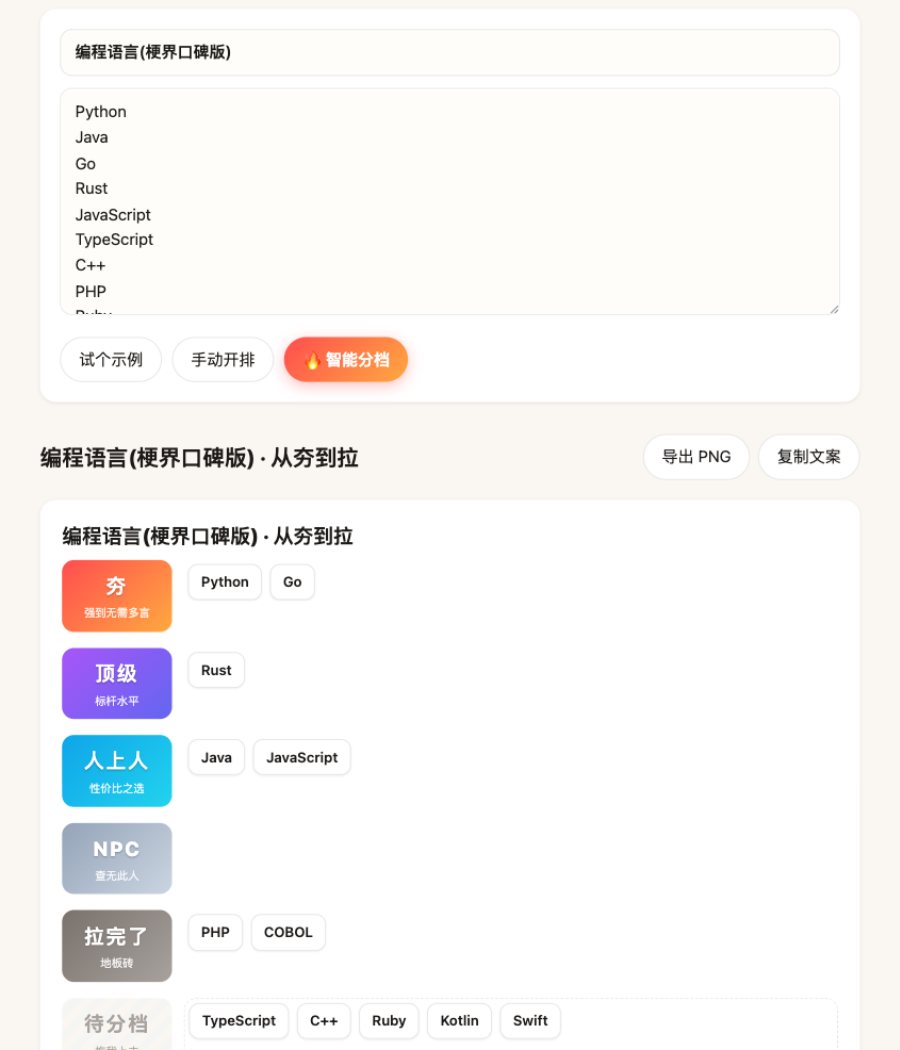
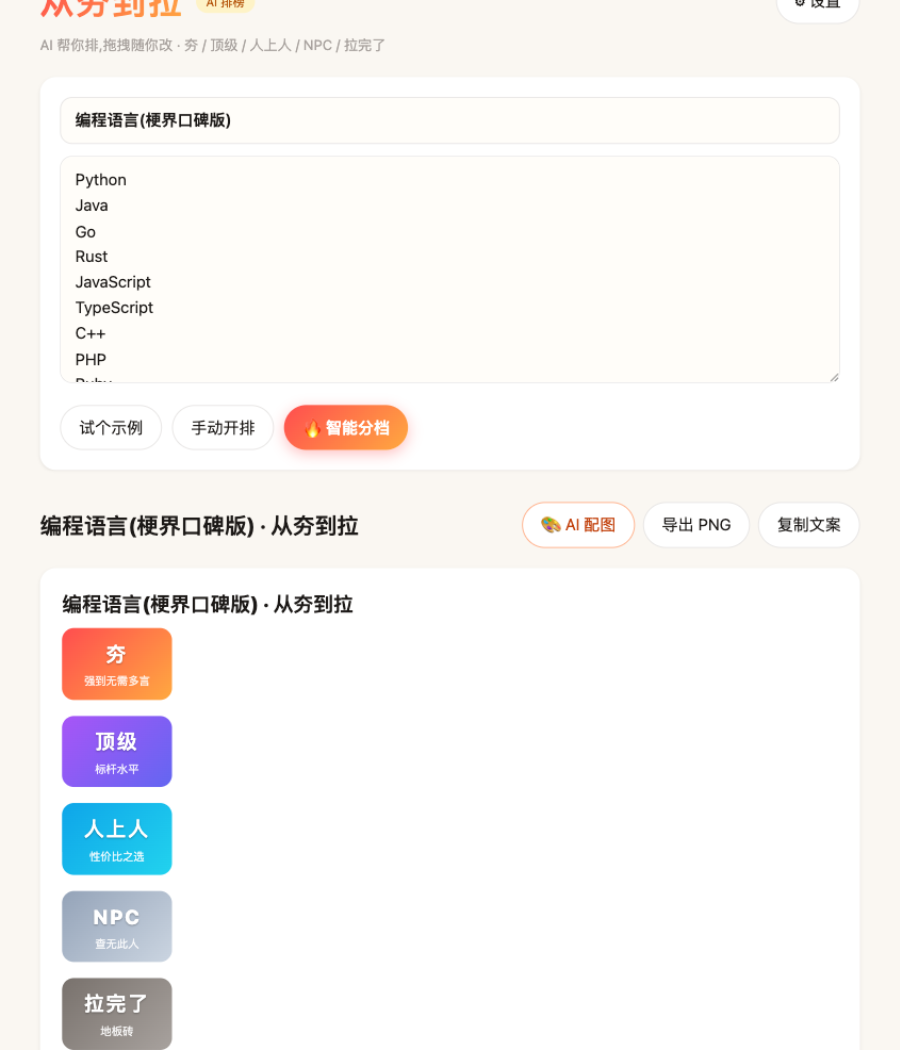
Add: AI 生图配图 Pollinations 串行节流(v0.3)

diff --git a/app.js b/app.js
@@ -1,8 +1,9 @@
 import { TIERS, parseItems, buildPrompt, parseTierResult, toMarkdown } from './tier.js'
 import { PROVIDERS, chat } from './llm.js'
+import { fetchImageDataURL, imageUrl } from './image.js'
 
 const $ = (id) => document.getElementById(id)
-const els = ['topic', 'items', 'btn-demo', 'btn-manual', 'btn-ai', 'btn-settings', 'btn-png', 'btn-md',
+const els = ['topic', 'items', 'btn-demo', 'btn-manual', 'btn-ai', 'btn-settings', 'btn-img', 'btn-png', 'btn-md',
   'board-wrap', 'board', 'board-title', 'board-title-text', 'settings', 'set-provider', 'set-baseurl',
   'set-model', 'set-key', 'set-save', 'set-cancel', 'key-url', 'key-hint', 'toast', 'opt-analytics']
   .reduce((m, id) => ((m[id] = $(id)), m), {})
@@ -51,9 +52,9 @@ const defaultConfig = () => {
 let config = { ...defaultConfig(), ...JSON.parse(localStorage.getItem(CONFIG_KEY) || '{}') }
 
 // ── 状态与渲染 ──────────────────────────────────────────────────
-let state = { topic: '', results: [] } // results: [{name, tier(null=待分档), reason}]
+let state = { topic: '', results: [] } // results: [{name, tier(null=待分档), reason, emoji?, image?(URL), imageLoaded?}]
 
-function renderBoard() {
+function renderBoard(onImageSettled) {
   const { topic, results } = state
   els['board-wrap'].hidden = false
   els['board-title'].textContent = topic ? `${topic} · 从夯到拉` : '从夯到拉'
@@ -87,6 +88,26 @@ function renderBoard() {
       chip.dataset.name = m.name
       const name = document.createElement('div')
       name.className = 'name'
+      if (m.image && !m.imageFailed && !m.imagePending) {
+        const avatar = document.createElement('img')
+        avatar.src = m.image
+        avatar.alt = ''
+        avatar.width = 22
+        avatar.height = 22
+        avatar.onload = () => {
+          if (m.imageLoaded) return // 重建渲染的缓存命中,不重复计数
+          m.imageLoaded = true
+          onImageSettled?.(m, true)
+        }
+        avatar.onerror = () => {
+          if (m.imageFailed) return
+          m.imageFailed = true
+          m.image = ''
+          onImageSettled?.(m, false)
+        }
+        name.appendChild(avatar)
+        name.appendChild(document.createTextNode(' '))
+      }
       if (m.emoji) {
         const emoji = document.createElement('span')
         emoji.className = 'emoji'
@@ -197,13 +218,106 @@ els['btn-ai'].addEventListener('click', async () => {
   }
 })
 
+// ── AI 配图(免费生图,受控队列:并发 2,失败自动重试 1 次) ──────
+els['btn-img'].addEventListener('click', () => {
+  const todo = state.results.filter((r) => !r.image)
+  if (!todo.length) return toast('配图已齐,刷新页面可重新生成')
+  const btn = els['btn-img']
+  btn.disabled = true
+  btn.dataset.orig = btn.textContent
+  const total = todo.length
+  const callbacks = new Map() // name → 该条本轮的 settle 回调
+  let done = 0
+  let fail = 0
+  let inflight = 0
+  const paint = () => (btn.textContent = `配图中 ${done + fail}/${total}…`)
+  paint()
+
+  const finishBatch = () => {
+    btn.disabled = false
+    btn.textContent = btn.dataset.orig
+    track('image_generate', { ok: done, fail, total })
+    toast(fail ? `配图完成,${fail} 张失败,可再点一次重试` : '配图完成 ✨')
+  }
+
+  const launchNext = () => {
+    while (inflight < 1) {
+      const r = todo.find((x) => !x.started)
+      if (!r) {
+        if (done + fail >= total) finishBatch()
+        return
+      }
+      r.started = true
+      r.imagePending = false
+      r.imageFailed = false
+      r.imageLoaded = false
+      r.image = imageUrl(state.topic || 'tier list', r.name)
+      inflight++
+      callbacks.set(r.name, (row, ok) => {
+        if (!ok && !row.retried) {
+          row.retried = true
+          row.image = ''
+          row.started = false
+          setTimeout(() => {
+            inflight--
+            launchNext()
+          }, 3000)
+          return
+        }
+        callbacks.delete(row.name)
+        inflight--
+        ok ? done++ : fail++
+        paint()
+        setTimeout(launchNext, ok ? 600 : 3000) // 节流:给免费限流窗口留呼吸
+      })
+      renderBoard((row, ok) => callbacks.get(row.name)?.(row, ok))
+    }
+  }
+
+  for (const r of todo) {
+    r.image = ''
+    r.imagePending = true
+    r.imageFailed = false
+    r.imageLoaded = false
+    r.started = false
+    r.retried = false
+  }
+  launchNext()
+})
+
 // ── 导出 PNG(SVG foreignObject,零依赖) ─────────────────────────
 els['btn-png'].addEventListener('click', async () => {
+  const btn = els['btn-png']
+  btn.disabled = true
+  btn.dataset.orig = btn.textContent
+  btn.textContent = '导出中…'
+  try {
+    await exportPNG()
+  } finally {
+    btn.disabled = false
+    btn.textContent = btn.dataset.orig
+  }
+})
+
+async function exportPNG() {
   const node = $('export-root')
   const W = node.offsetWidth
   const H = node.scrollHeight
   const css = await (await fetch('style.css')).text()
   const clone = node.cloneNode(true)
+  // 外域图片进 SVG 会裂:已加载的转 dataURL,未就绪的剔除
+  for (const chipEl of clone.querySelectorAll('.chip')) {
+    const r = state.results.find((x) => x.name === chipEl.dataset.name)
+    const img = chipEl.querySelector('img')
+    if (!img) continue
+    if (r?.image && r.imageLoaded) {
+      try {
+        img.src = await fetchImageDataURL(r.image, 20000)
+        continue
+      } catch {}
+    }
+    img.remove()
+  }
   const wrap = document.createElement('div')
   wrap.setAttribute('xmlns', 'http://www.w3.org/1999/xhtml')
   wrap.style.cssText = `width:${W}px;background:#fff;border-radius:16px;overflow:hidden`
@@ -236,7 +350,7 @@ els['btn-png'].addEventListener('click', async () => {
     URL.revokeObjectURL(a.href)
   })
   track('png_export')
-})
+}
 
 // ── 复制 Markdown 文案 ──────────────────────────────────────────
 els['btn-md'].addEventListener('click', async () => {

diff --git a/image.js b/image.js
@@ -1,0 +1,40 @@
+// image.js — AI 配图:Pollinations 免费生图,无 key,fetch 转 dataURL 供导出
+
+const ENDPOINT = 'https://image.pollinations.ai/prompt/'
+
+export function buildImagePrompt(topic, name) {
+  return `minimal flat vector icon of ${name}, ${topic} theme, single object, centered, vibrant pastel background, clean edges, no text, no letters, no watermark`
+}
+
+// 稳定 seed:同名同图,重生成不跳变
+export function seedOf(name) {
+  let h = 0
+  for (const ch of name) h = (h * 31 + ch.codePointAt(0)) >>> 0
+  return h % 100000
+}
+
+export function imageUrl(topic, name, size = 128) {
+  const prompt = encodeURIComponent(buildImagePrompt(topic, name))
+  return `${ENDPOINT}${prompt}?width=${size}&height=${size}&nologo=true&seed=${seedOf(name)}`
+}
+
+// 拉一张图 → dataURL(仅导出时用;URL 同 seed 已生成过会命中缓存,秒回)
+// data 协议在 SVG 导出里安全,不污染 canvas
+export async function fetchImageDataURL(url, timeoutMs = 20000) {
+  const ctrl = new AbortController()
+  const timer = setTimeout(() => ctrl.abort(), timeoutMs)
+  try {
+    const res = await fetch(url, { signal: ctrl.signal })
+    if (!res.ok) throw new Error(`生图 ${res.status}`)
+    const blob = await res.blob()
+    if (!blob.type.startsWith('image/')) throw new Error('返回的不是图片')
+    return await new Promise((resolve, reject) => {
+      const reader = new FileReader()
+      reader.onload = () => resolve(reader.result)
+      reader.onerror = () => reject(new Error('读取图片失败'))
+      reader.readAsDataURL(blob)
+    })
+  } finally {
+    clearTimeout(timer)
+  }
+}

diff --git a/image.test.js b/image.test.js
@@ -1,0 +1,24 @@
+import { describe, expect, test } from 'bun:test'
+import { buildImagePrompt, seedOf, imageUrl } from './image.js'
+
+describe('image prompt/url 构造', () => {
+  test('prompt 含条目与主题,且禁止文字水印', () => {
+    const p = buildImagePrompt('编程语言', 'Go')
+    expect(p).toContain('Go')
+    expect(p).toContain('编程语言')
+    expect(p).toContain('no text')
+    expect(p).toContain('no watermark')
+  })
+  test('seed 同名稳定、异名大概率不同', () => {
+    expect(seedOf('Go')).toBe(seedOf('Go'))
+    expect(seedOf('Go')).not.toBe(seedOf('Rust'))
+  })
+  test('url 正确编码并带尺寸与 seed', () => {
+    const url = imageUrl('奶茶', '喜 茶', 128)
+    expect(url).toContain('https://image.pollinations.ai/prompt/')
+    expect(url).toContain('width=128&height=128')
+    expect(url).toContain('nologo=true')
+    expect(url).toContain(`seed=${seedOf('喜 茶')}`)
+    expect(decodeURIComponent(url.split('/prompt/')[1].split('?')[0])).toContain('喜 茶')
+  })
+})

diff --git a/index.html b/index.html
@@ -34,6 +34,7 @@
       <div class="board-head">
         <h2 id="board-title"></h2>
         <div class="board-actions">
+          <button id="btn-img" class="ghost">🎨 AI 配图</button>
           <button id="btn-png" class="ghost">导出 PNG</button>
           <button id="btn-md" class="ghost">复制文案</button>
         </div>

diff --git a/style.css b/style.css
@@ -154,6 +154,7 @@ button:active { transform: scale(0.97); }
 }
 .chip:active { cursor: grabbing; }
 .chip .name { font-size: 14px; font-weight: 600; }
+.chip .name img { border-radius: 6px; vertical-align: -5px; }
 .chip .emoji { font-size: 16px; font-weight: 400; }
 .chip .reason { font-size: 11px; color: var(--muted); }
 

diff --git a/README.md b/README.md
@@ -12,7 +12,8 @@
 
 1. 填主题(如「编程语言」「奶茶品牌」)和条目(每行一个,最多 30 个)
 2. 点「🔥 智能分档」——没有 Key 也能点「手动开排」自己拖
-3. 拖拽微调 → 「导出 PNG」或「复制文案」
+3. 可选「🎨 AI 配图」:免费 AI 给每条生成小图标(无需 Key,走 Pollinations;串行生成约 1-2 分钟,失败的再点一次补齐)
+4. 拖拽微调 → 「导出 PNG」或「复制文案」
 
 ## 免费 AI 从哪来
 
@@ -29,6 +30,7 @@
 ## 隐私
 
 - API Key 仅存本地浏览器,不上传任何服务器
+- AI 配图为匿名请求,只发主题与条目名,不含任何 Key
 - 匿名使用统计默认开启,页脚一键关闭,关闭后零网络请求(见 [POSTHOG_ANALYTICS.md](POSTHOG_ANALYTICS.md))
 
 ## 开发

diff --git a/POSTHOG_ANALYTICS.md b/POSTHOG_ANALYTICS.md
@@ -11,6 +11,7 @@
 | `manual_start` | 点「手动开排」 | |
 | `tier_generate` | AI 分档完成/失败 | `provider`, `model?`, `count?`, `ms?`, `ok` |
 | `tier_adjust` | 拖拽换档 | `to`(档位 id 或 inbox) |
+| `image_generate` | AI 配图批次结束 | `ok`, `fail`, `total` |
 | `png_export` | 导出 PNG | |
 | `md_copy` | 复制文案 | |
 | `settings_save` | 保存 AI 设置 | `provider` |
